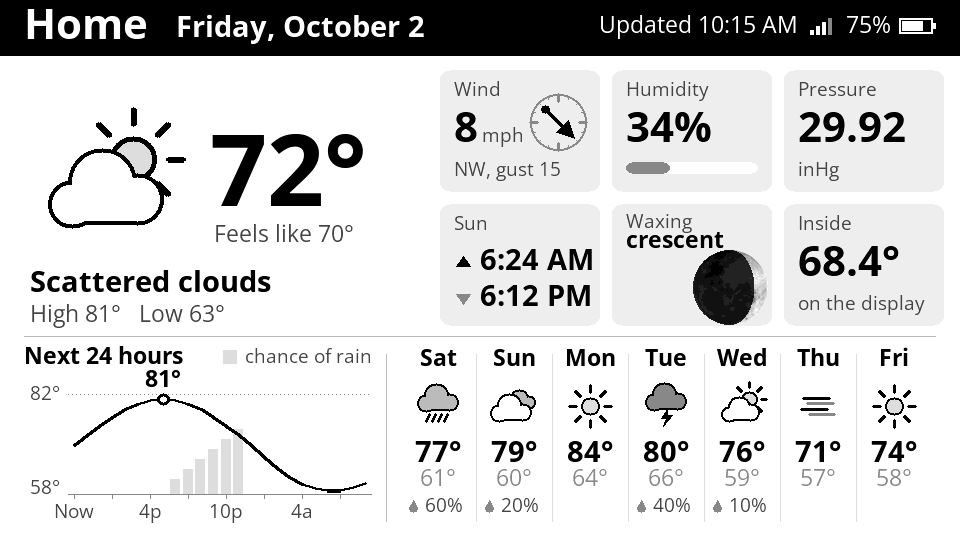
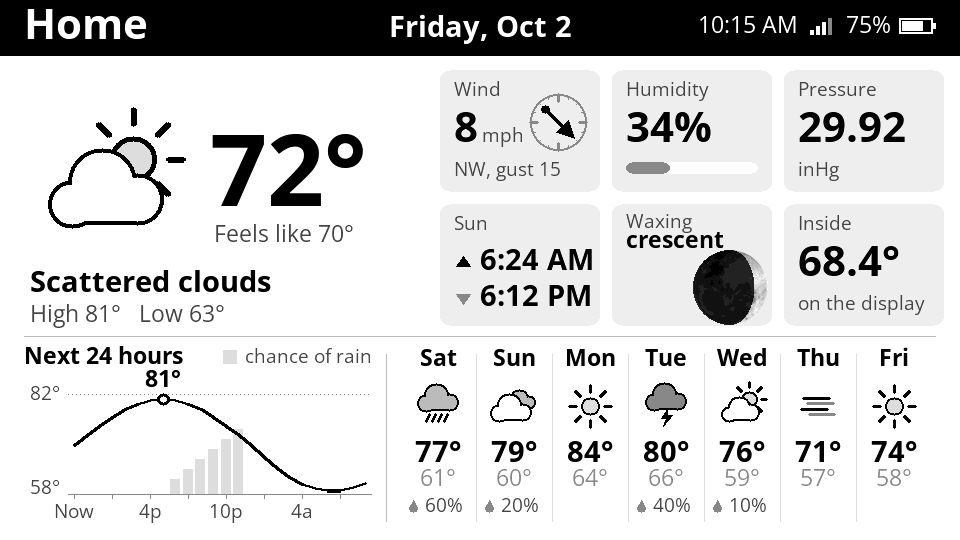
Header: centred date, time-only update stamp
Claude-Session: https://claude.ai/code/session_01AUPozFroVL22kzHz3JWSUB

Changed region(s): [[0.1875, 0.0296, 0.5938, 0.0889], [0.625, 0.0296, 0.7188, 0.0593]]

diff --git a/src/screen.cpp b/src/screen.cpp
@@ -113,16 +113,19 @@ static void header(Canvas &c, const Weather &w, const DeviceStatus &st) {
     static const char *days[7] = { "Sunday", "Monday", "Tuesday", "Wednesday", "Thursday", "Friday", "Saturday" };
     static const char *months[12] = { "January", "February", "March", "April", "May", "June", "July",
                                       "August", "September", "October", "November", "December" };
-    // The date follows the place name and uses the longest form that fits
-    // before the space kept for the update stamp ("Offline since 12:59 PM").
-    int dateX = nameEnd + 28;
-    int room = batteryBlockLeft(c, st) - 14 - 22 - 12 - c.textWidth(Sans11, "Offline since 12:59 PM") - 24 - dateX;
+    // The date is centred, using the longest form that stays clear of the place
+    // name on the left and the update stamp on the right (widest: "Offline 12:59 PM").
+    const int mid = Canvas::W / 2, gap = 24;
+    int stampLeft = batteryBlockLeft(c, st) - 14 - 22 - 12 - c.textWidth(Sans11, "Offline 12:59 PM");
+    int halfRoom = mid - (nameEnd + gap);
+    if (stampLeft - gap - mid < halfRoom) halfRoom = stampLeft - gap - mid;
+    int room = 2 * halfRoom;
     snprintf(buf, sizeof buf, "%s, %s %d", days[tm.tm_wday], months[tm.tm_mon], tm.tm_mday);
     if (c.textWidth(SansBold14, buf) > room)
         snprintf(buf, sizeof buf, "%s, %.3s %d", days[tm.tm_wday], months[tm.tm_mon], tm.tm_mday);
     if (c.textWidth(SansBold14, buf) > room)
         snprintf(buf, sizeof buf, "%.3s, %.3s %d", days[tm.tm_wday], months[tm.tm_mon], tm.tm_mday);
-    c.text(SansBold14, dateX, 37, buf, Align::Left, kBarText, kBarBg);
+    c.text(SansBold14, mid, 37, buf, Align::Center, kBarText, kBarBg);
 
     // Battery sits at the far right; the update stamp (drawn separately) goes left of it.
     int pct = batteryPercent(st.batteryVolts);
@@ -358,8 +361,8 @@ void drawUpdateStamp(Canvas &c, const Weather &w, const DeviceStatus &st) {
     drawWifiBars(c, x, 35, st.wifiRssi, kBarText, kBarOff);
     char when[16], buf[48];
     fmtClock(when, sizeof when, w.observedAt);
-    if (st.fresh) snprintf(buf, sizeof buf, "Updated %s", when);
-    else          snprintf(buf, sizeof buf, "Offline since %s", when);
+    if (st.fresh) snprintf(buf, sizeof buf, "%s", when);
+    else          snprintf(buf, sizeof buf, "Offline %s", when);
     c.text(Sans11, x - 12, 33, buf, Align::Right, kBarText, kBarBg);
 }
 

diff --git a/src/screen.h b/src/screen.h
@@ -6,7 +6,7 @@
 // 24-hour chart and the next four days. Everything except the update stamp.
 void drawWeatherScreen(Canvas &c, const Weather &w, const DeviceStatus &st);
 
-// "Updated 10:15 AM" and the Wi-Fi bars in the header. Kept separate so the
+// The update time ("10:15 AM") and the Wi-Fi bars in the header. Kept separate so the
 // firmware can tell whether anything *else* changed before refreshing the panel.
 void drawUpdateStamp(Canvas &c, const Weather &w, const DeviceStatus &st);
 

diff --git a/README.md b/README.md
@@ -25,7 +25,7 @@ A battery-powered weather dashboard for the **LilyGo T5 4.7" e-paper board** (ES
 ## Behaviour
 
 - **Schedule:** every 15 minutes from 06:00 to 16:45, every 30 minutes from 17:00 to 22:00, then asleep until 06:00. That's about 55 updates a day. Change `UPDATE_WINDOWS` in `config.h` to adjust.
-- **Only refreshes when something changed.** Each wake draws the new screen in memory and compares it with what's already on the panel. If only the update time would differ, the panel is left alone, saving the refresh. So "Updated" shows when the display last changed.
+- **Only refreshes when something changed.** Each wake draws the new screen in memory and compares it with what's already on the panel. If only the update time would differ, the panel is left alone, saving the refresh. So the time in the header shows when the display last changed.
 - **Fast wake:** Wi-Fi reconnects using the access point's channel and BSSID saved from the last wake, skipping the scan. A fixed IP can also skip DHCP (optional, in `config.h`). The clock is set from the weather server's response, so there's no separate time sync.
 - **If an update fails** (Wi-Fi down, API error), the last good forecast is redrawn from RTC memory with an "Offline" note. It then retries after 5, 10, 20… minutes during the day, and waits for the morning at night.
 - **Battery reading** is taken right after waking, before Wi-Fi loads the battery. It's the median of 31 samples, smoothed across wakes and shown in 5% steps. For best accuracy, calibrate it against a multimeter with `BATTERY_CALIBRATION`.
